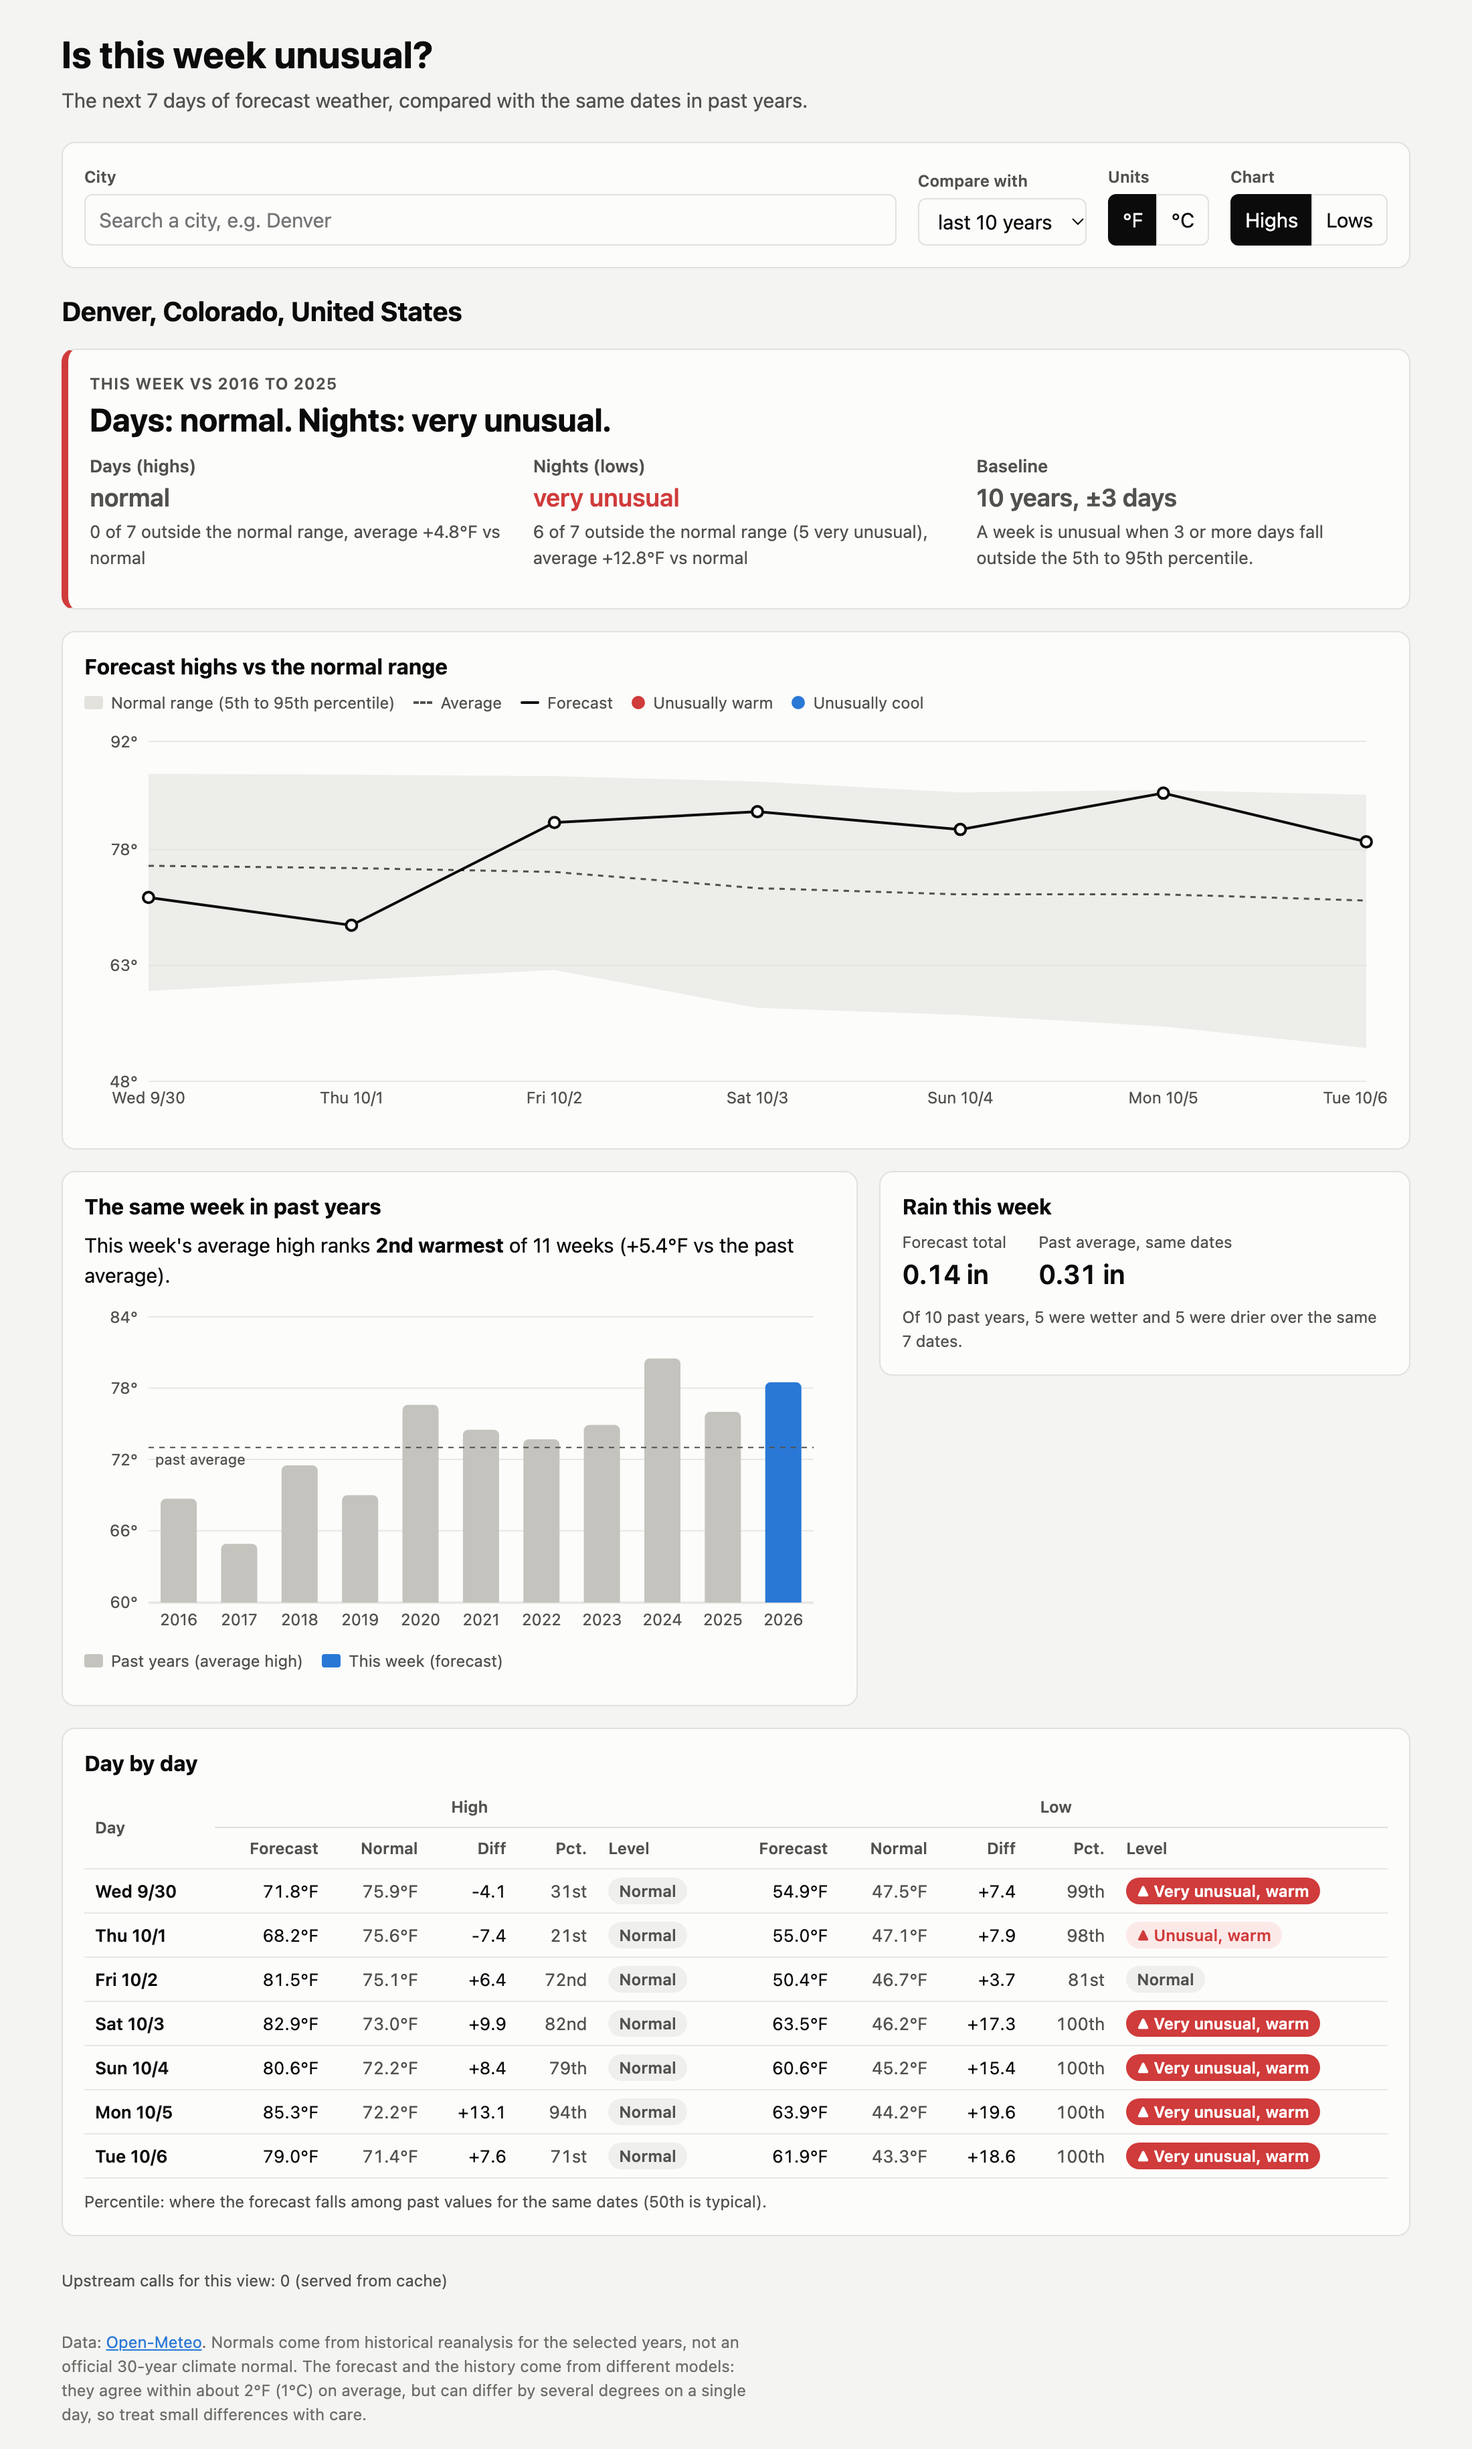
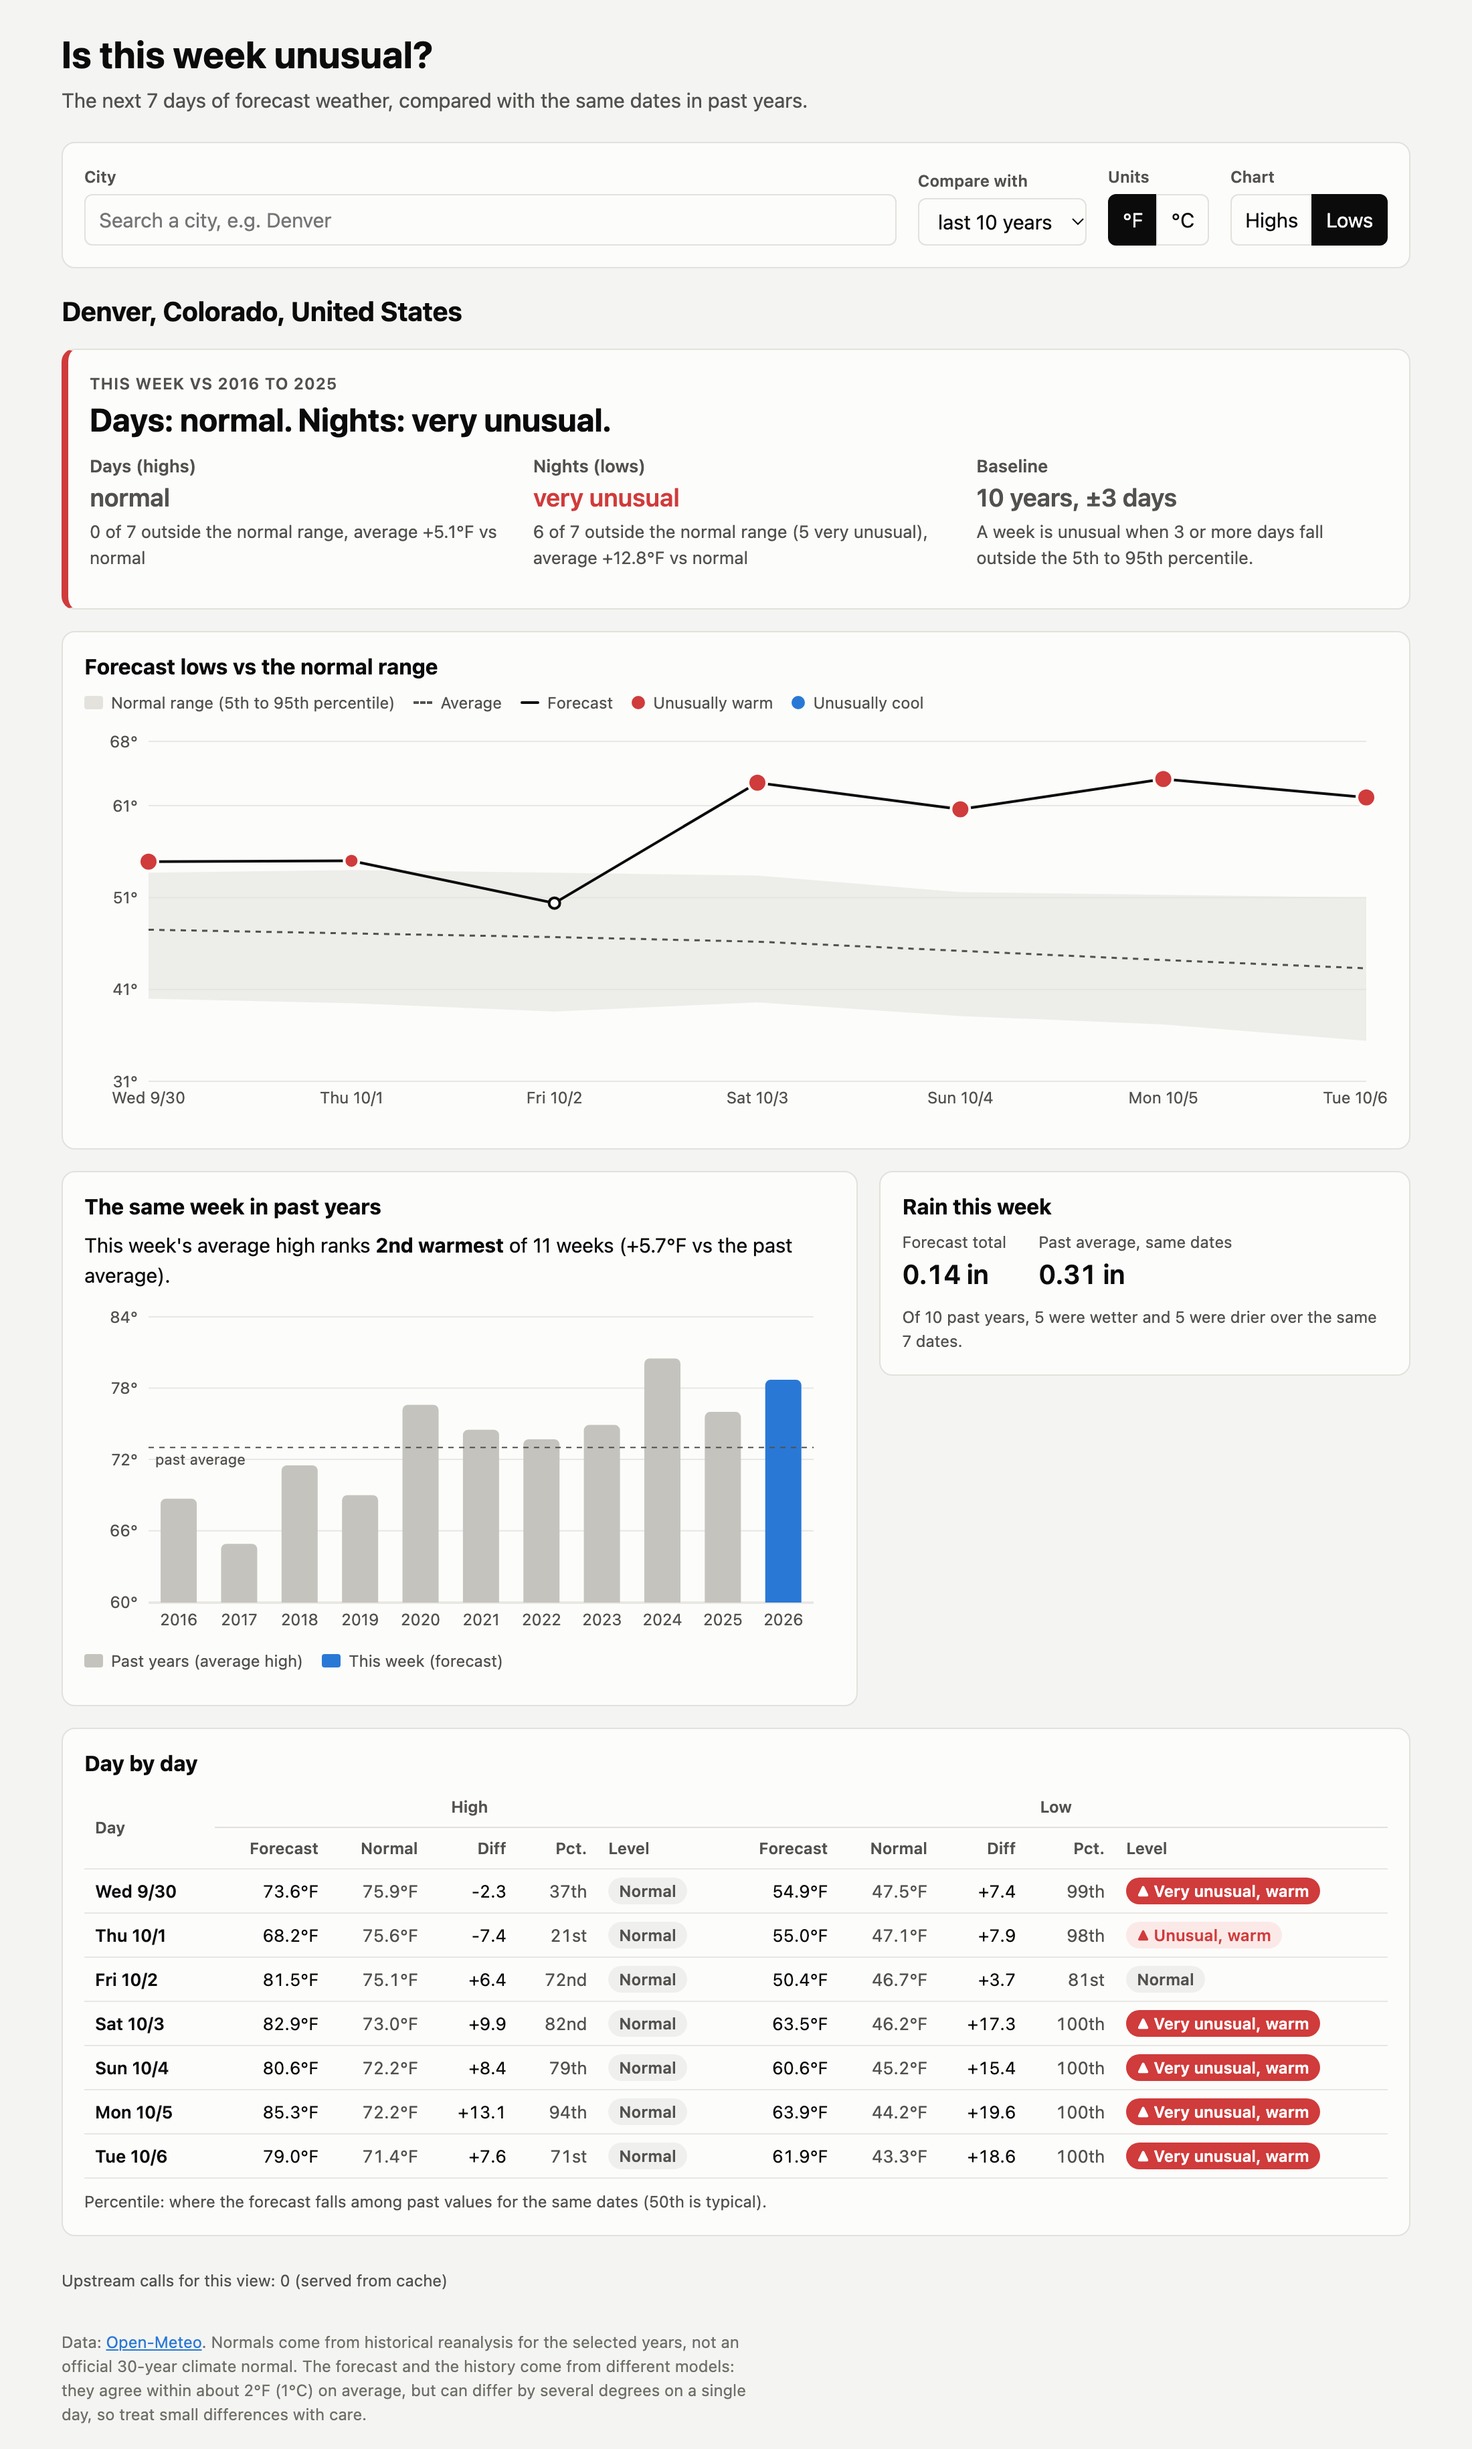
frontend: the week chart opens on whichever of highs or lows is more unusual
The chart always opened on highs, so when the banner said nights were the
unusual part, the chart looked like it contradicted the headline. It now opens
on the stronger verdict (very > somewhat > normal; highs on a tie; a verdict
beats "not enough history"). The toggle still works, a manual pick sticks when
years or units change, and a new city starts on its own stronger side.

The anomaly and same-week requests moved up into App, so the chart and the
toggle read the same value in the same render (an effect-based version let the
toggle lag one frame behind the chart).

Tests: App.test.jsx (4), 3 failing before this change. Frontend 10 pass,
20 of 20 repeated runs; backend 102 pass. Screenshot retaken.

diff --git a/take-home/solution/frontend/src/App.test.jsx b/take-home/solution/frontend/src/App.test.jsx
@@ -1,0 +1,91 @@
+import { cleanup, fireEvent, render, screen } from '@testing-library/react'
+import { afterEach, beforeEach, expect, it, vi } from 'vitest'
+import App from './App.jsx'
+import { strongerMeasure } from './format.js'
+
+// Recharts' ResponsiveContainer needs ResizeObserver, which jsdom lacks.
+globalThis.ResizeObserver ??= class { observe() {} unobserve() {} disconnect() {} }
+
+const verdict = (v) => ({ unusual_days: 0, very_unusual_days: 0, days_judged: 7, days_without_forecast: 0, verdict: v })
+const comparison = { forecast: 20, normal: 18, p5: 10, p95: 26, anomaly: 2, pct_rank: 60, level: 'normal', direction: 'warmer', n: 70 }
+
+function anomalyResponse(highs, lows) {
+  return {
+    location: { name: null, latitude: 39.74, longitude: -104.98, timezone: 'America/Denver' },
+    units: { temperature: '°F', precipitation: 'in' },
+    baseline: { years_requested: 10, years_used: 10, from_year: 2016, to_year: 2025, window_days: 3 },
+    week: {
+      start: '2026-09-30', end: '2026-10-06', avg_high_anomaly: 1, avg_low_anomaly: 9,
+      highs: verdict(highs), lows: verdict(lows),
+      rain: { forecast_total: 0, avg_total: 0.3, years_wetter: 5, years_drier: 5, years_compared: 10 },
+    },
+    days: Array.from({ length: 7 }, (_, i) => ({
+      date: `2026-10-0${i + 1}`, high: comparison, low: comparison, rain: { forecast: 0 },
+    })),
+    warnings: [],
+    meta: { upstream_calls: 0, generated_at: '2026-09-30T00:00:00Z' },
+  }
+}
+
+let highs, lows, fetchMock
+
+beforeEach(() => {
+  highs = 'normal'
+  lows = 'very_unusual'
+  fetchMock = vi.fn(async (url) => {
+    const body = String(url).startsWith('/api/weather/anomaly')
+      ? anomalyResponse(highs, lows)
+      : { error: { code: 'upstream_error', message: 'not needed here', retry_after_s: null } }
+    return new Response(JSON.stringify(body), { status: body.error ? 502 : 200 })
+  })
+  vi.stubGlobal('fetch', fetchMock)
+  window.history.replaceState(null, '', '/?lat=39.74&lon=-104.98&name=Denver')
+})
+
+afterEach(() => {
+  cleanup()
+  vi.unstubAllGlobals()
+})
+
+const chartTitle = () => screen.findByRole('heading', { name: /^Forecast (highs|lows) vs the normal range$/ })
+const pressed = (label) => screen.getByRole('button', { name: label }).getAttribute('aria-pressed')
+
+it('picks the stronger verdict: very > somewhat > normal, highs on a tie', () => {
+  const week = (h, l) => ({ highs: { verdict: h }, lows: { verdict: l } })
+  expect(strongerMeasure(week('normal', 'very_unusual'))).toBe('low')
+  expect(strongerMeasure(week('somewhat_unusual', 'normal'))).toBe('high')
+  expect(strongerMeasure(week('somewhat_unusual', 'very_unusual'))).toBe('low')
+  expect(strongerMeasure(week('very_unusual', 'very_unusual'))).toBe('high')
+  expect(strongerMeasure(week('normal', 'normal'))).toBe('high')
+  expect(strongerMeasure(week('not_enough_history', 'normal'))).toBe('low') // a verdict beats none
+  expect(strongerMeasure(week('not_enough_history', 'somewhat_unusual'))).toBe('low')
+})
+
+it('the chart opens on lows when the nights are the unusual part', async () => {
+  render(<App />)
+  expect((await chartTitle()).textContent).toBe('Forecast lows vs the normal range')
+  expect(pressed('Lows')).toBe('true')
+})
+
+it("a manual choice sticks when years or units change", async () => {
+  render(<App />)
+  await chartTitle()
+  fireEvent.click(screen.getByRole('button', { name: 'Highs' }))
+  expect((await chartTitle()).textContent).toBe('Forecast highs vs the normal range')
+
+  fireEvent.click(screen.getByRole('button', { name: '°C' }))
+  fireEvent.change(screen.getByRole('combobox', { name: /compare with/i }), { target: { value: '20' } })
+  await screen.findByText(/this week vs/i)
+  expect((await chartTitle()).textContent).toBe('Forecast highs vs the normal range')
+  expect(pressed('Highs')).toBe('true')
+})
+
+it('without a manual choice, the chart follows the verdict when the data changes', async () => {
+  render(<App />)
+  expect((await chartTitle()).textContent).toBe('Forecast lows vs the normal range')
+  highs = 'very_unusual'
+  lows = 'normal'
+  fireEvent.click(screen.getByRole('button', { name: '°C' }))
+  await screen.findByText(/Days: very unusual/)
+  expect((await chartTitle()).textContent).toBe('Forecast highs vs the normal range')
+})

diff --git a/take-home/solution/frontend/src/App.jsx b/take-home/solution/frontend/src/App.jsx
@@ -1,4 +1,5 @@
 import { useState } from 'react'
+import { strongerMeasure } from './format.js'
 import { useApi } from './useApi.js'
 import CitySearch from './components/CitySearch.jsx'
 import { Segmented, YearsSelect } from './components/Controls.jsx'
@@ -36,11 +37,19 @@ export default function App() {
   const [place, setPlaceState] = useState(placeFromUrl)
   const setPlace = (p) => {
     setPlaceState(p)
+    setMeasureChoice(null) // a new city starts on its own stronger verdict
     placeToUrl(p)
   }
   const [years, setYears] = useState(10)
   const [units, setUnits] = useState('imperial')
-  const [measure, setMeasure] = useState('high')
+  // The data lives here so the chart and its toggle read the same value in the same render.
+  const params = place ? { lat: place.latitude, lon: place.longitude, years, units } : null
+  const anomaly = useApi('/api/weather/anomaly', params)
+  const sameWeek = useApi('/api/weather/same-week', params)
+
+  // The chart shows the user's pick if they made one, else the stronger of highs and lows.
+  const [measureChoice, setMeasureChoice] = useState(null)
+  const measure = measureChoice ?? (anomaly.data ? strongerMeasure(anomaly.data.week) : 'high')
 
   return (
     <div className="page">
@@ -63,13 +72,13 @@ export default function App() {
         <Segmented
           label="Chart"
           value={measure}
-          onChange={setMeasure}
+          onChange={setMeasureChoice}
           options={[{ value: 'high', label: 'Highs' }, { value: 'low', label: 'Lows' }]}
         />
       </div>
 
       {place ? (
-        <Dashboard place={place} years={years} units={units} measure={measure} />
+        <Dashboard place={place} anomaly={anomaly} sameWeek={sameWeek} measure={measure} />
       ) : (
         <Empty title="Search for a city to begin.">
           <p>Or try one of these:</p>
@@ -93,10 +102,7 @@ export default function App() {
   )
 }
 
-function Dashboard({ place, years, units, measure }) {
-  const params = { lat: place.latitude, lon: place.longitude, years, units }
-  const anomaly = useApi('/api/weather/anomaly', params)
-  const sameWeek = useApi('/api/weather/same-week', params)
+function Dashboard({ place, anomaly, sameWeek, measure }) {
   const retryAll = () => {
     anomaly.retry()
     sameWeek.retry()

diff --git a/take-home/solution/frontend/src/format.js b/take-home/solution/frontend/src/format.js
@@ -34,3 +34,7 @@ export const VERDICT_TEXT = {
 // For the banner's border color only. "Not enough history" never outranks a real verdict.
 const RANK = { not_enough_history: -1, normal: 0, somewhat_unusual: 1, very_unusual: 2 }
 export const worstVerdict = (a, b) => (RANK[a] >= RANK[b] ? a : b)
+
+// Which of highs or lows the week chart should open on: the stronger verdict, highs on a tie.
+export const strongerMeasure = (week) =>
+  RANK[week.lows.verdict] > RANK[week.highs.verdict] ? 'low' : 'high'

diff --git a/take-home/solution/docs/WALKTHROUGH.md b/take-home/solution/docs/WALKTHROUGH.md
@@ -352,8 +352,10 @@ including recovering after 60 s.
 - **"Compare with":** sets how many past years to use (5, 10, 20, or 30). Only new years are
   fetched; cached ones are reused.
 - **°F/°C:** sends a new request, which costs 0 upstream calls because the data is cached in metric.
-- **Highs/Lows:** only switches the week chart, with no new request. The same-week chart always
-  shows highs.
+- **Highs/Lows:** switches the week chart, with no new request. The chart opens on whichever
+  side has the stronger verdict (very > somewhat > normal, highs on a tie), so it matches the
+  banner. A manual pick sticks when years or units change; a new city starts on its own
+  stronger side again. The same-week chart always shows highs.
 
 **35. What does each chart and card show, and how is "unusual" shown besides color?**
 - **Verdict banner:** "Days: ... Nights: ...", then for each the count of flagged days and the
@@ -381,7 +383,7 @@ is always flagged, and a dot inside it never is.
 ## Tests
 
 **37. How many tests, grouped by what they cover?**
-102 backend tests and 6 frontend tests, all passing:
+102 backend tests and 10 frontend tests, all passing:
 
 | File | Tests | What they cover |
 |---|---|---|
@@ -393,6 +395,7 @@ is always flagged, and a dot inside it never is.
 | `test_cache.py` | 3 | Call budget limit and recovery, in-flight dedup, failed fetch not cached |
 | `frontend/.../CitySearch.test.jsx` | 3 | Enter can't pick a stale hidden result; picking doesn't fire a wasted search; retyping a picked label searches again |
 | `frontend/.../VerdictBanner.test.jsx` | 3 | Names a missing forecast vs thin history; counts the real number of days |
+| `frontend/src/App.test.jsx` | 4 | The week chart opens on the stronger verdict; a manual pick sticks through years and units; without one, it follows the data |
 
 Both suites were run repeatedly to check for flakiness: the frontend 20 times (5 under heavy CPU
 load) and the backend 5 times, with no failures.

diff --git a/take-home/solution/README.md b/take-home/solution/README.md
@@ -47,8 +47,9 @@ npm test
 
 There are 102 backend tests. They cover the math (including a 3,000-case check that the chart
 band and the flags always agree), dates, units, parsing, odd upstream replies, caching, the call
-budget, and every route, with Open-Meteo mocked, so they need no network. There are 6 frontend
-tests, for the city search's keyboard and debounce behavior and for the verdict banner.
+budget, and every route, with Open-Meteo mocked, so they need no network. There are 10 frontend
+tests, for the city search's keyboard and debounce behavior, the verdict banner, and which side
+the week chart opens on.
 
 ## What the dashboard shows
 
@@ -56,7 +57,8 @@ tests, for the city search's keyboard and debounce behavior and for the verdict 
   shows how many of the 7 days fall outside the normal range, and the average difference from
   normal.
 - **Week chart:** the forecast against a shaded normal range (5th to 95th percentile of past
-  values) and the average. Days that are unusually warm or cool are marked. Toggle highs or lows.
+  values) and the average. Days that are unusually warm or cool are marked. It opens on whichever
+  of highs or lows has the stronger verdict, so it matches the banner; the toggle switches it.
 - **Same week in past years:** the average high for these 7 dates in each past year, with this
   week highlighted and ranked.
 - **Rain:** this week's forecast total against the same 7 dates in past years.

diff --git a/take-home/solution/docs/DECISIONS.md b/take-home/solution/docs/DECISIONS.md
@@ -144,9 +144,9 @@ tilt the line a lot, and "very unusual" went up (16% to 18% in 2025, 14% to 20% 
 - **"Very unusual" rests on few values.** At 10 years, the 2nd and 98th percentiles depend on the
   2 or 3 most extreme days out of 70.
 - **The cache is lost on restart** and isn't shared between processes.
-- **Few frontend tests.** Six Vitest tests cover the search box and the verdict banner. The rest
-  was checked by hand: every state, keyboard search, 30 years, both units, the mobile layout, and
-  the backend going down.
+- **Few frontend tests.** Ten Vitest tests cover the search box, the verdict banner, and which
+  side the week chart opens on. The rest was checked by hand: every state, keyboard search,
+  30 years, both units, the mobile layout, and the backend going down.
 
 ## Potential future steps
 
